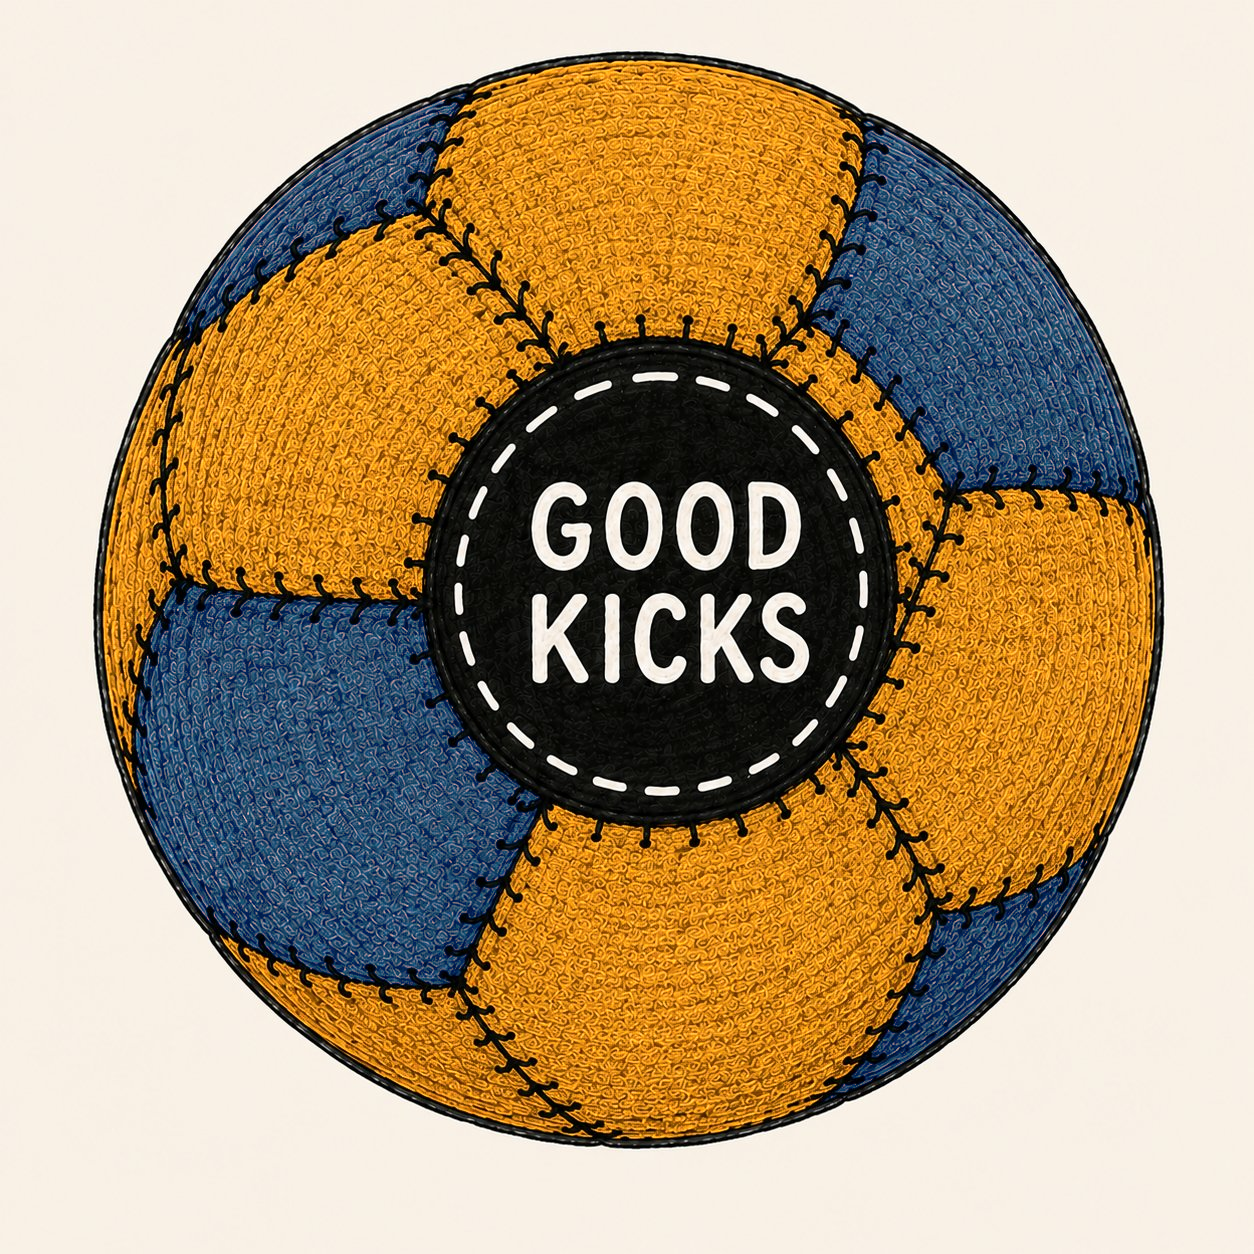
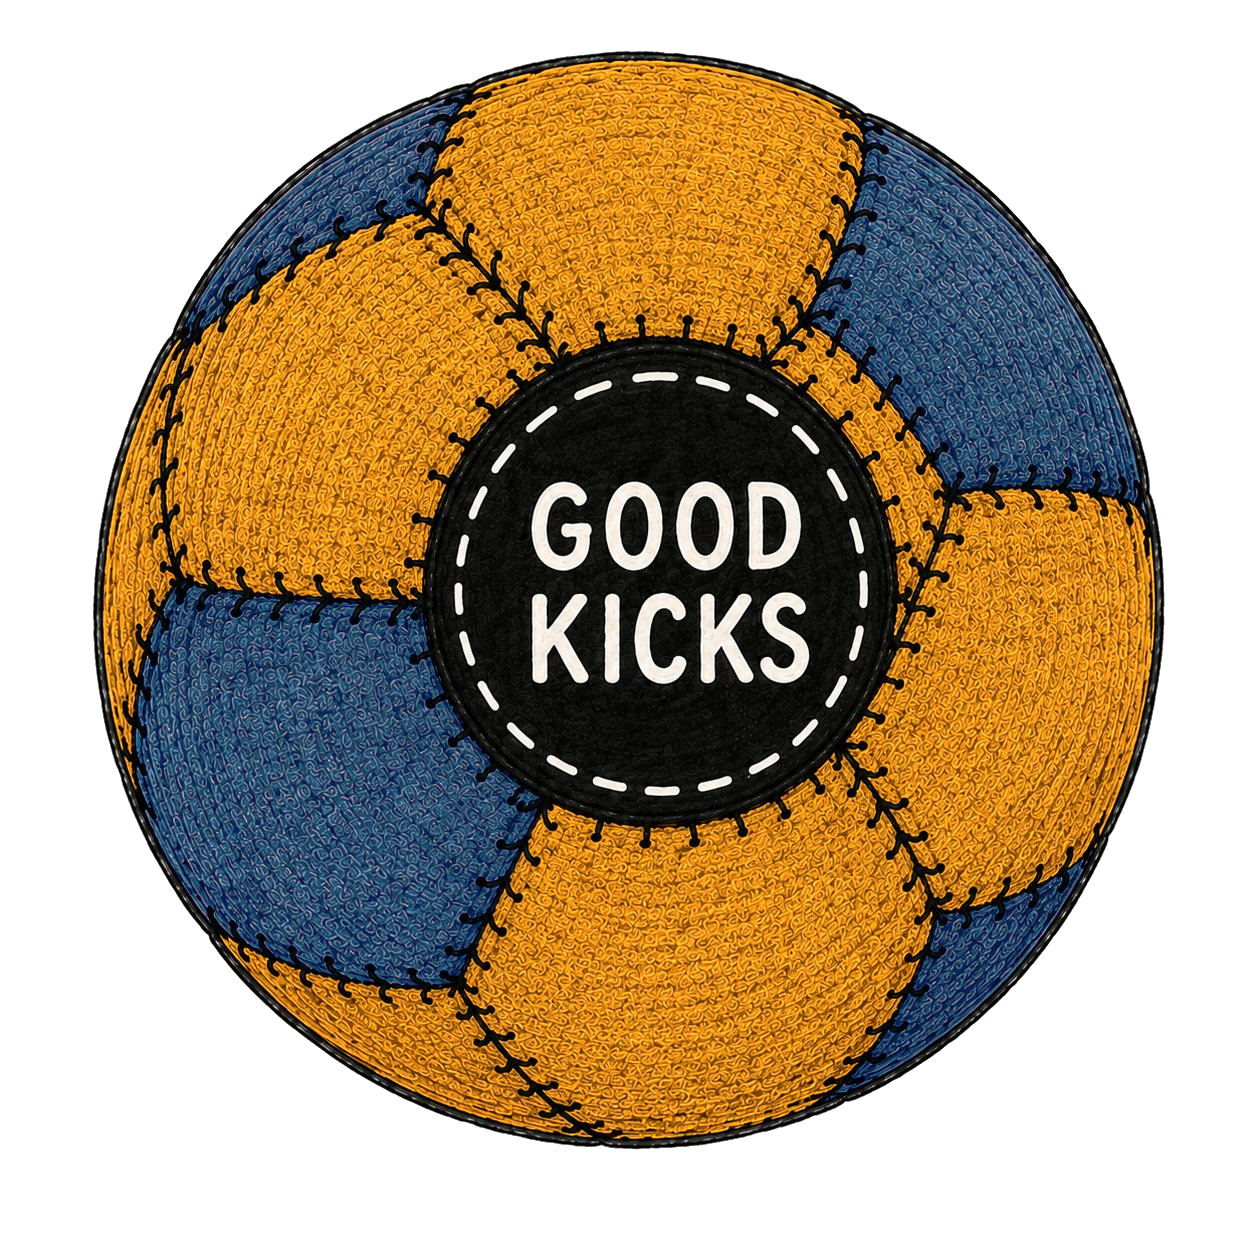
fix: remove white background from sack images via flood-fill + restore drop-shadow
Processed all 6 sack PNGs with PIL flood-fill background removal (threshold 28).
Background-connected pixels converted to alpha=0. Interior white panels (Montana)
preserved since they're not edge-connected. Removed mix-blend-mode hack from
color wheel — no longer needed with truly transparent PNGs.

diff --git a/components/home/color-wheel.tsx b/components/home/color-wheel.tsx
@@ -44,8 +44,7 @@ export function ColorWheel({ size = 300, showLabel = true, bgColor = '#EFE8DA' }
                   src={current.image}
                   alt={`Good Kicks ${current.name} colorway`}
                   fill
-                  className="object-contain"
-                  style={{ mixBlendMode: 'multiply' }}
+                  className="object-contain drop-shadow-xl"
                   priority
                 />
               </motion.div>
